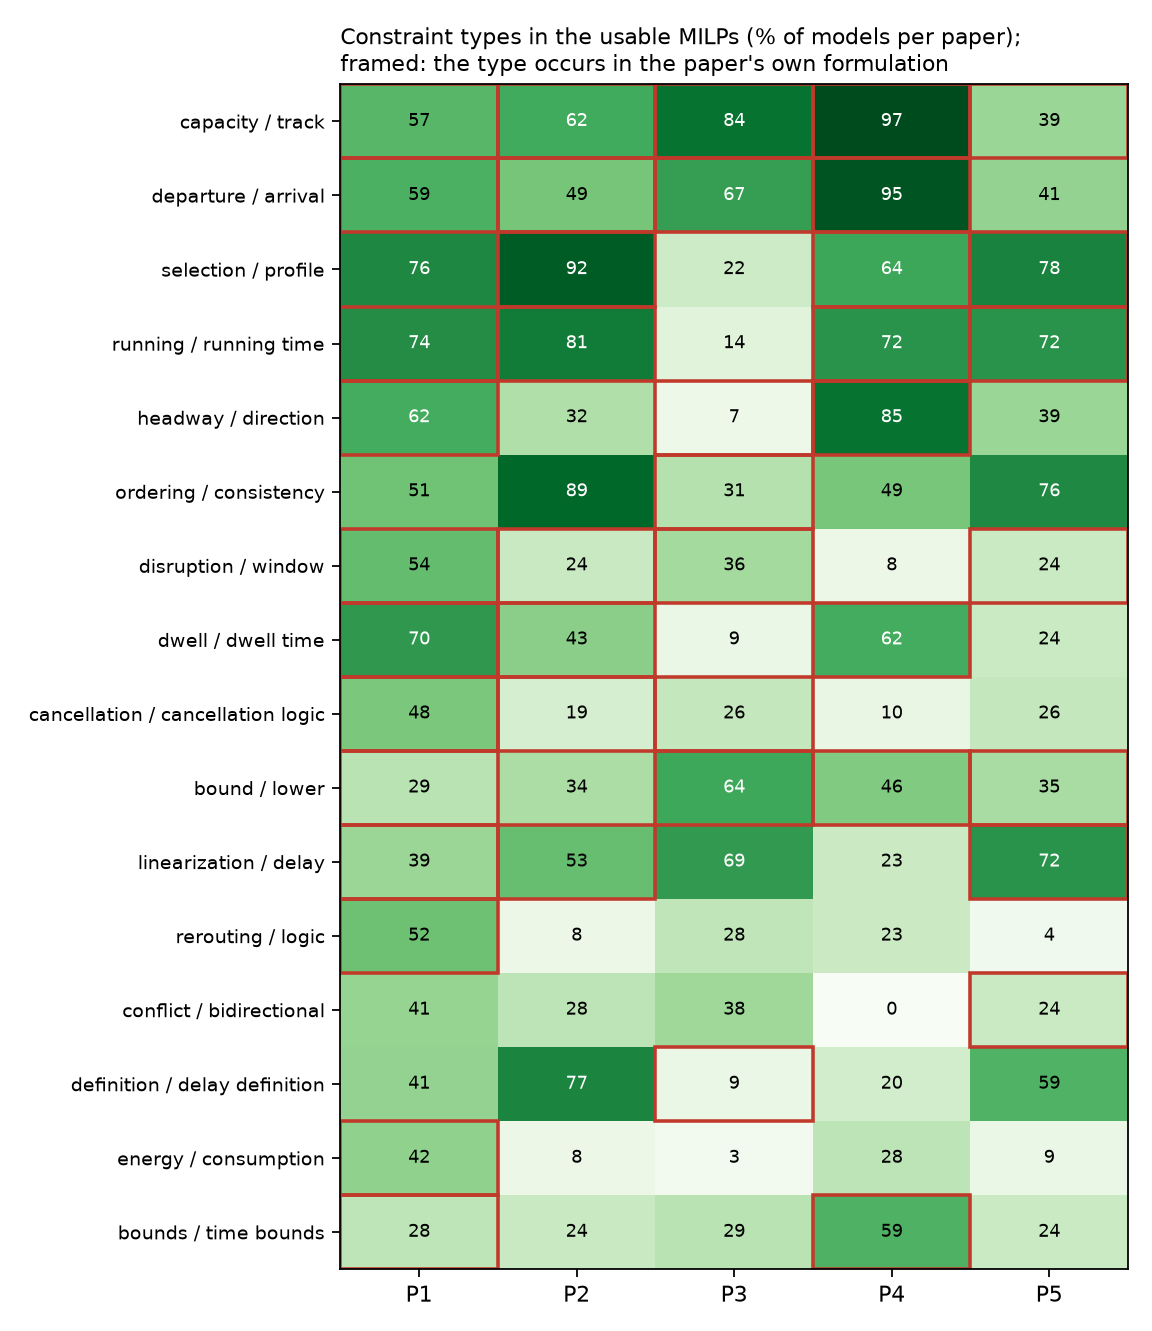
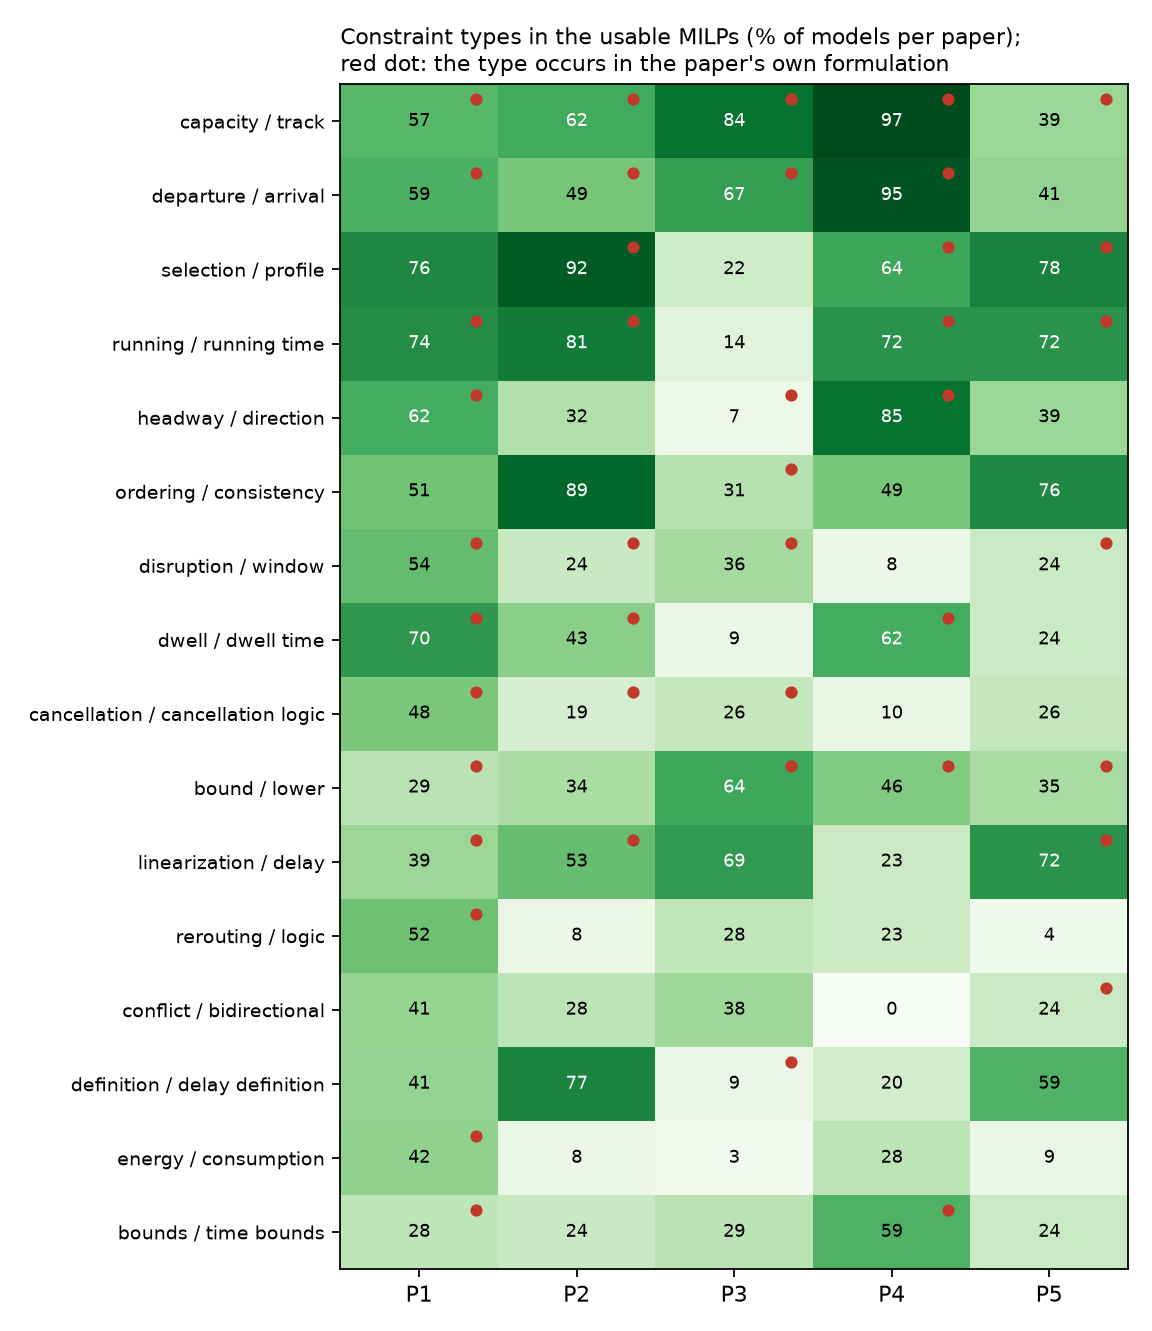
Constraint-type heatmap: red corner dots mark the reference types
Frames around neighbouring cells merged into a grid and no longer marked single
cells (Joern's feedback); a dot in the cell corner does not.

Claude-Session: https://claude.ai/code/session_01H5UVrRws1wVzT4QgkKLVUX

diff --git a/scripts/name_topics.py b/scripts/name_topics.py
@@ -155,7 +155,7 @@ def main() -> int:
     (out / "topics.md").write_text("\n".join(md), encoding="utf-8", newline="\n")
 
     # figure: constraint types x paper, share of generated models containing the type;
-    # a frame marks the types present in the paper's own formulation
+    # a red dot marks the types present in the paper's own formulation
     cons = result["constraint"]["topics"]
     labels = [" / ".join(r["top_terms"][:2]) for r in cons]
     M = np.array([[r["share_by_paper"][p] for p in papers] for r in cons])
@@ -173,12 +173,11 @@ def main() -> int:
                 color="white" if M[i, j] > 0.6 else "black",
             )
             if p in r["references"]:
-                ax.add_patch(
-                    plt.Rectangle((j - 0.5, i - 0.5), 1, 1, fill=False, ec="#c0392b", lw=1.6)
-                )
+                # a corner marker, not a frame: frames of neighbouring cells merge into a grid
+                ax.plot(j + 0.36, i - 0.3, marker="o", ms=4.5, color="#c0392b")
     ax.set_xticks(range(len(papers)), papers)
     ax.set_yticks(range(len(cons)), labels, fontsize=8.5)
-    ax.set_title("Constraint types in the usable MILPs (% of models per paper);\nframed: the type occurs in the paper's own formulation",
+    ax.set_title("Constraint types in the usable MILPs (% of models per paper);\nred dot: the type occurs in the paper's own formulation",
                  fontsize=10, loc="left")  # fmt: skip
     fig.tight_layout()
     fig.savefig(out / "topics.png", dpi=160)
